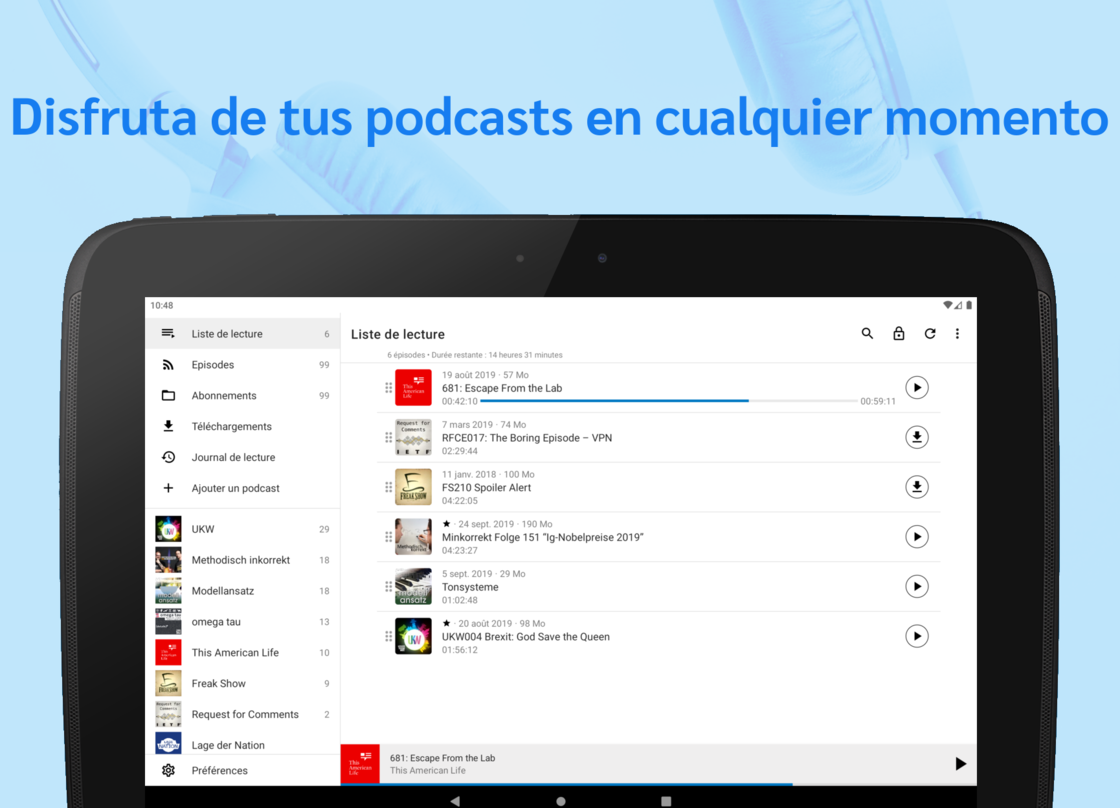
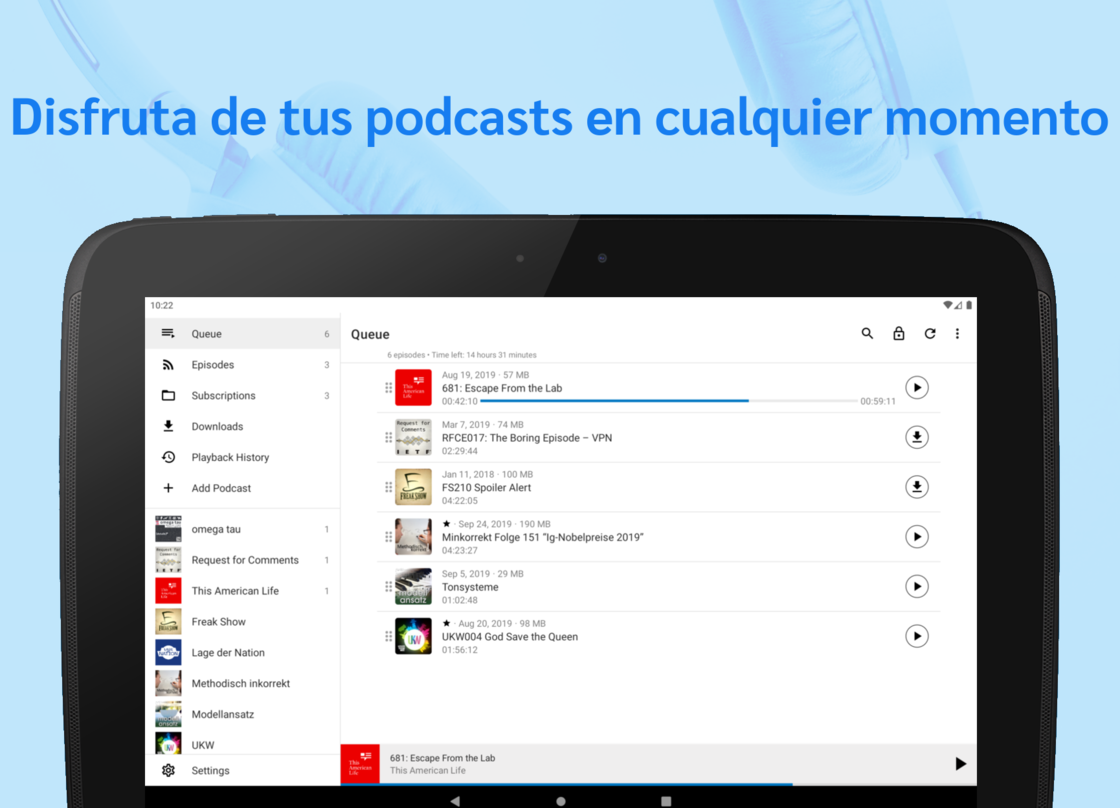
Fix screenshot creator script using wrong languages

diff --git a/screenshots/02_frameScreenshots.py b/screenshots/02_frameScreenshots.py
@@ -85,6 +85,10 @@ def generate_screenshots(language, font):
     simple_phone(texts["03.png"], 'background2.png', raw_screenshots_path + '/02.png', output_path + '/phone-screenshots/03.png', font)
     simple_phone(texts["04.png"], 'background1.png', raw_screenshots_path + '/04.png', output_path + '/phone-screenshots/04.png', font)
     simple_phone(texts["05.png"], 'background2.png', raw_screenshots_path + '/05.png', output_path + '/phone-screenshots/05.png', font)
+    
+    if not Path(raw_screenshots_path + '/tablet.png').is_file():
+        raw_screenshots_path = 'raw/en-US'
+
     simple_tablet(texts["tablet.png"], raw_screenshots_path + '/tablet.png', output_path + '/large-tablet-screenshots/tablet.png', font)
     os.system('mogrify -resize 1120 "' + output_path + '/phone-screenshots/0*.png"')
     os.system('mogrify -resize 1120 "' + output_path + '/large-tablet-screenshots/tablet.png"')
